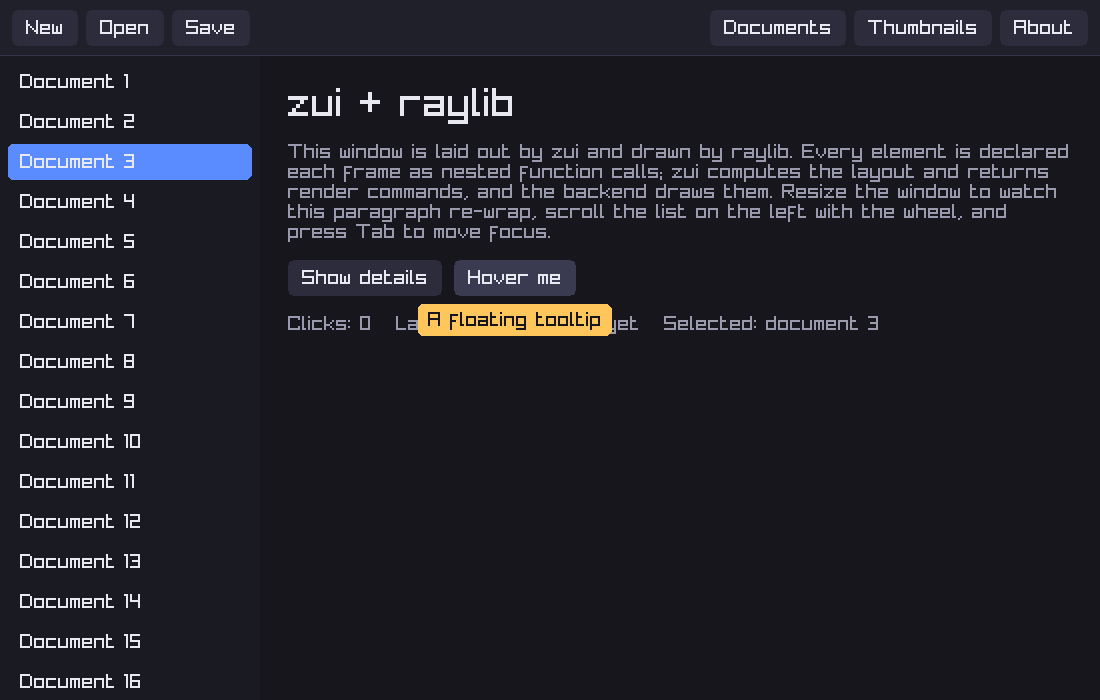
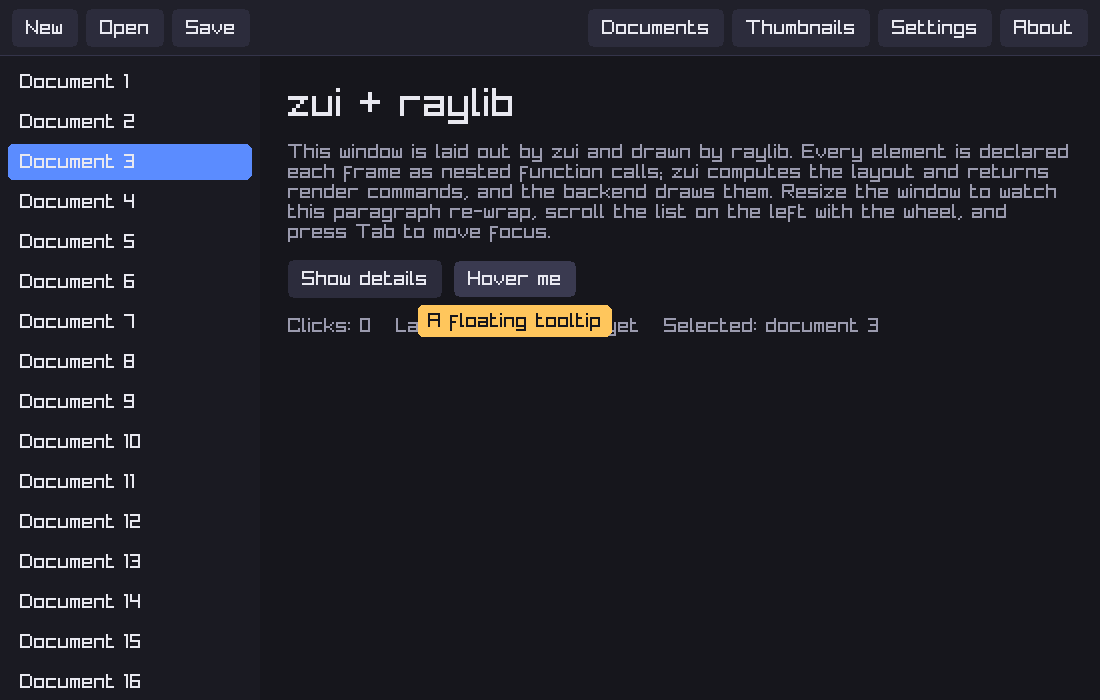
Use zui 0.4: widgets in the demo and a generated settings editor
- Re-export zui_widgets and zui_reflect, so applications import only
  zui_raylib.
- The demo's buttons are zui_widgets buttons with the demo's theme.
- A new Settings view is generated by zui_reflect.inspector from a
  Preferences struct, next to a card that shows the values live.
- --settings renders it with the dropdown open; CI renders it too.

diff --git a/renderers/raylib/README.md b/renderers/raylib/README.md
@@ -22,10 +22,11 @@ zig build demo
 zig build demo -- --screenshot demo.png           # render offscreen and save a PNG
 zig build demo -- --screenshot demo.png --about   # ...with the About dialog open
 zig build demo -- --screenshot grid.png --thumbnails  # ...in the thumbnail grid
+zig build demo -- --screenshot settings.png --settings  # ...in the settings editor
 ```
 
-The demo shows every zui feature through 0.3:
-- toolbar buttons with hover, press and focus states;
+The demo shows every zui feature through 0.4:
+- toolbar buttons from `zui_widgets`, with hover, press and focus states;
 - a scrollable, selectable list (scroll with the wheel);
 - wrapped text that re-wraps as the window resizes;
 - a toggle whose state lives in zui's state table;
@@ -34,9 +35,16 @@ The demo shows every zui feature through 0.3:
 - a **Thumbnails** view: a grid of 600 cells where each thumbnail loads in
   a zui `TaskPool` (200–800 ms of simulated I/O). Only the rows near the
   visible area are declared, so scrolling away cancels their pending
-  loads. The header counts loads started, completed and canceled.
+  loads. The header counts loads started, completed and canceled;
+- a **Settings** view generated by `zui_reflect.inspector` from a
+  `Preferences` struct: a text field, a dropdown, a slider, a stepper,
+  checkboxes, a collapsible nested struct and read-only text, all
+  configured by one typed `zui_inspector` declaration. The card beside it
+  shows the values live.
 
 ![The thumbnail grid after a fast scroll](docs/thumbnails.png)
+
+![The generated settings editor with its dropdown open](docs/settings.png)
 
 Press Tab and Shift-Tab to move focus, and Enter or Space to activate.
 
@@ -55,6 +63,8 @@ exe.root_module.addImport("zui_raylib", backend.module("zui_raylib"));
 ```zig
 const zui_raylib = @import("zui_raylib");
 const zui = zui_raylib.zui; // the same zui the backend was built with
+const zui_widgets = zui_raylib.zui_widgets; // and its optional modules
+const zui_reflect = zui_raylib.zui_reflect;
 const c = zui_raylib.c;
 
 const Ui = zui.Context(zui_raylib.config(.{}), zui_raylib.Platform);
@@ -85,7 +95,7 @@ With that loop, an idle application uses no CPU. `Platform.wake` ends
 raylib's event wait when a background task completes, using
 `glfwPostEmptyEvent` (compiled into raylib's default desktop GLFW
 platform). Measured with the demo in a hidden window: 0.0 ms of CPU over
-10 idle seconds in both views. The same build with event waiting
+10 idle seconds in each view. The same build with event waiting
 disabled used 1,515.6 ms over those 10 seconds.
 
 ## What the backend maps, and how
